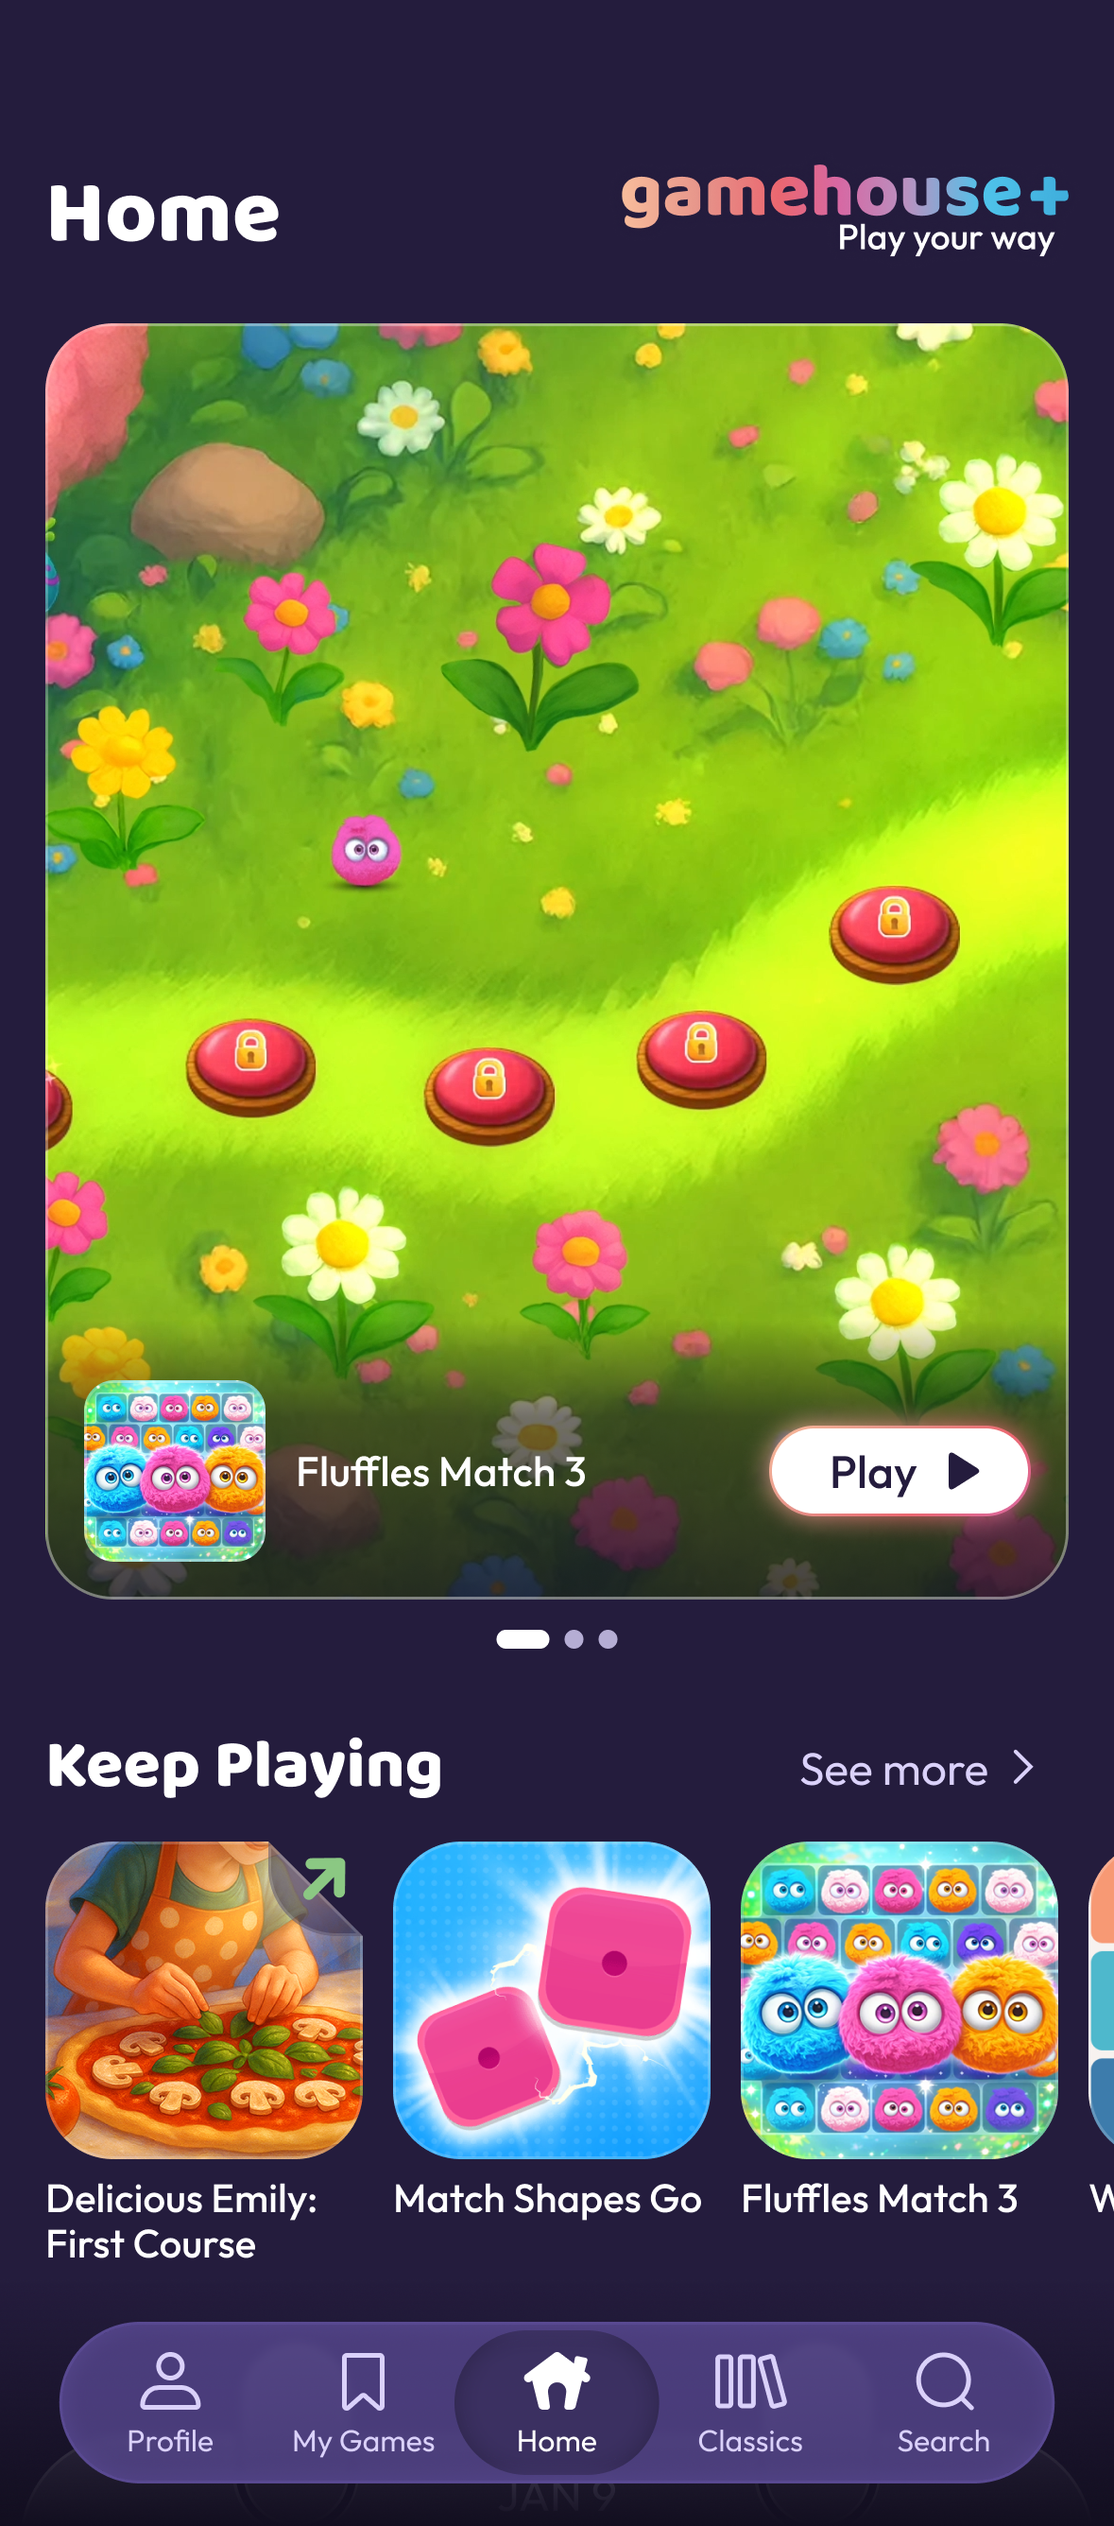
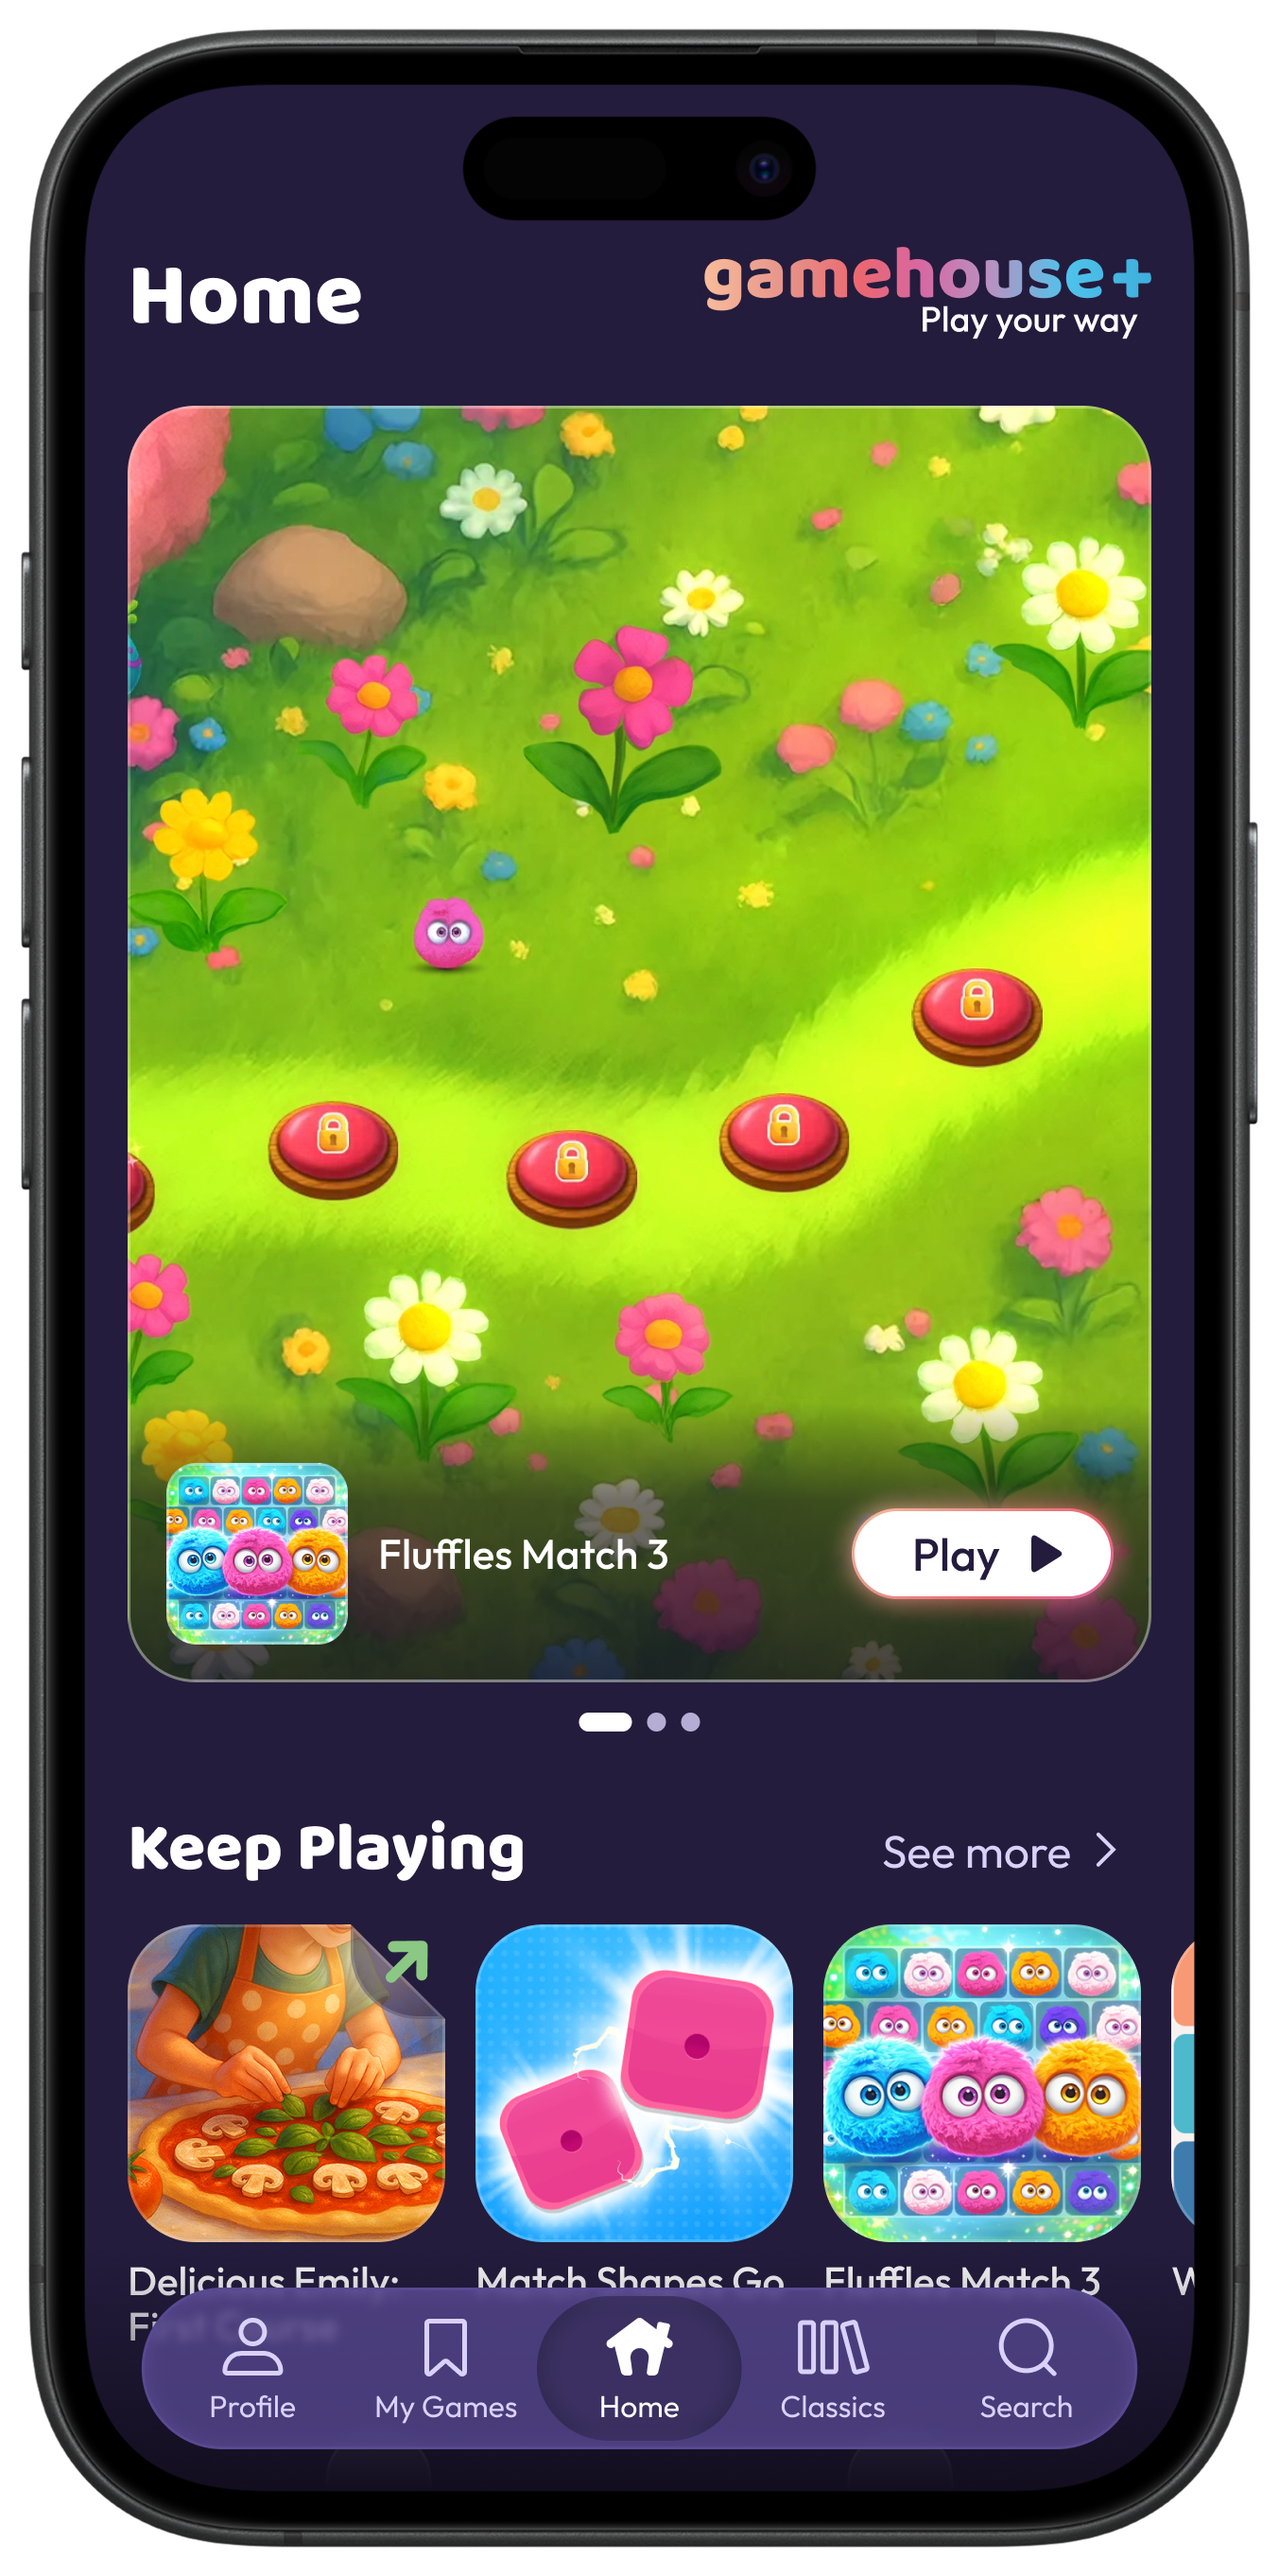
Replace Home/Classics/Search shots with framed device mockups, add My Games
New versions of the three existing screenshots come with a device frame
(bezel, notch, side buttons) at 1353x2724, replacing the raw 1179x2672
captures. My Games gets a real screenshot too, dropping its placeholder
plate. Updated all four featureRow ratios to match the new frame's aspect
so object-fit: cover doesn't crop them.

diff --git a/src/App.jsx b/src/App.jsx
@@ -985,7 +985,7 @@ export const CONTENT = {
               "Two additions carry it. Keep Playing brings back the games a player has already engaged with, so a returning session starts where the last one stopped. A video carousel sits above it, putting featured titles in motion so players can judge a game before tapping into it.",
             ],
             imageKey: "case.gamehouse-plus.home",
-            ratio: 1179 / 2672,
+            ratio: 1353 / 2724,
             caption:
               "Home stopped listing the catalog and started proposing a session.",
           },
@@ -998,7 +998,7 @@ export const CONTENT = {
               "Giving Classics its own tab in the tab bar kept downloadable franchises findable at all times, one tap from anywhere, while leaving the landing surface to the instant games that were performing best. Commitment is the point in Classics — long sessions, the series people finish — so it reads as a destination rather than a filter.",
             ],
             imageKey: "case.gamehouse-plus.classics",
-            ratio: 1179 / 2672,
+            ratio: 1353 / 2724,
             caption: "Downloadable franchises got a home instead of a badge.",
             imageFirst: true,
           },
@@ -1011,7 +1011,7 @@ export const CONTENT = {
               "Filters run on franchise and genre, never on format. A player looking for a series gets all of it — instant and downloadable, side by side. It keeps the catalog whole after splitting the front door, and makes dual-format play deliberate rather than accidental.",
             ],
             imageKey: "case.gamehouse-plus.search",
-            ratio: 1179 / 2672,
+            ratio: 1353 / 2724,
             caption:
               "Filters cross content types, so the library never feels split.",
           },
@@ -1024,7 +1024,7 @@ export const CONTENT = {
               "Whatever a player has saved or installed sits in one library, in one list, regardless of how each title loads. The distinction that structures the entire product disappears in the one place players think of as theirs.",
             ],
             imageKey: "case.gamehouse-plus.myGames",
-            ratio: 16 / 10,
+            ratio: 1353 / 2724,
             caption: "One library, regardless of how each game loads.",
             imageFirst: true,
           },
@@ -1955,11 +1955,8 @@ export const CONTENT = {
       alt: "Search, with a Series filter that spans franchise and genre results across both formats.",
     },
     "case.gamehouse-plus.myGames": {
-      src: null,
-      alt: "My Games, placeholder — a modular grid standing in for one library regardless of how each game loads.",
-      plate: "grid",
-      tone: "light",
-      seed: 559,
+      src: "img/case-gamehouse-plus-my-games.png",
+      alt: "My Games, one library holding every saved or installed title regardless of how it loads.",
     },
 
     "card.jesterday.thumbnail": {
